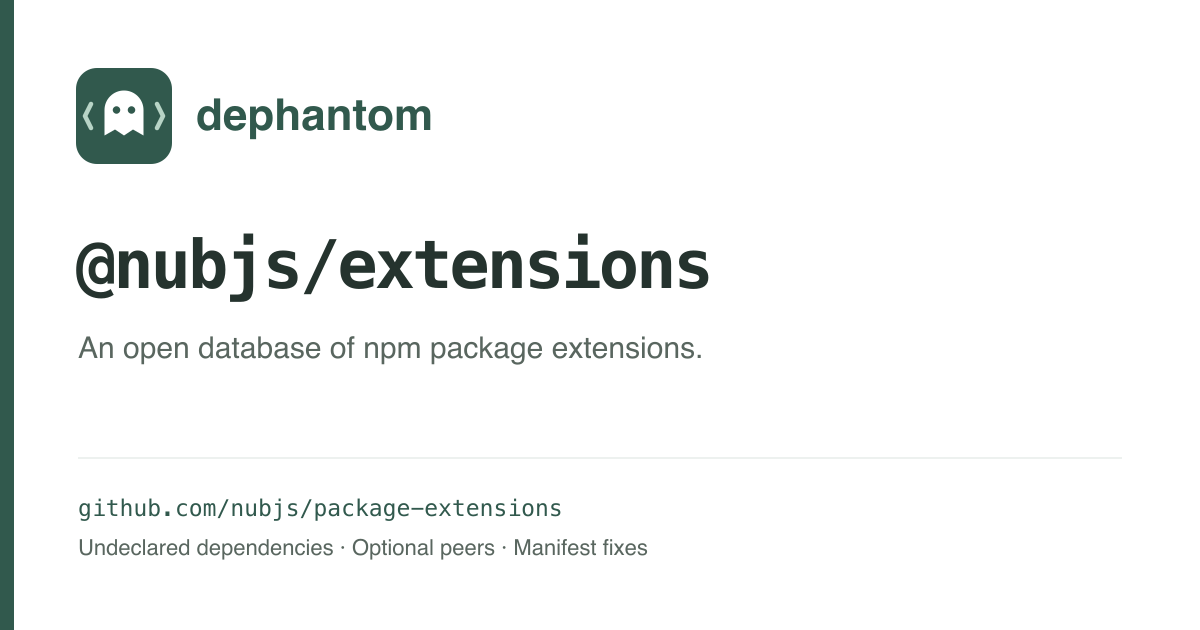
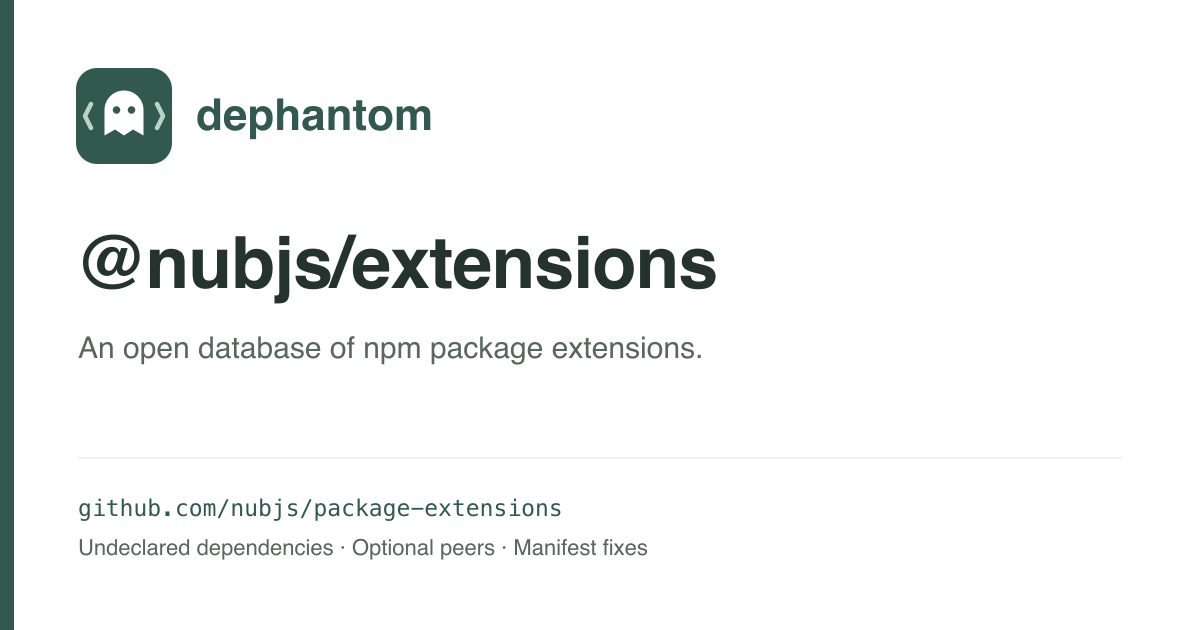
site: refine typography and reading rhythm

Changed region(s): [[0.0617, 0.3619, 0.6167, 0.4825]]

diff --git a/site/style.css b/site/style.css
@@ -1,5 +1,9 @@
 :root {
   --downloads-width: 160px;
+  --sans: -apple-system, BlinkMacSystemFont, "Segoe UI", Helvetica, Arial,
+    sans-serif;
+  --mono: ui-monospace, "SFMono-Regular", Menlo, Consolas, "Liberation Mono",
+    monospace;
   color-scheme: light;
   --ink: #25332e;
   --muted: #59665f;
@@ -14,12 +18,12 @@ body {
   margin: 0;
   background: #fff;
   color: var(--ink);
-  font: 16px/1.7 -apple-system, BlinkMacSystemFont, "Segoe UI", sans-serif;
+  font: 16px/1.75 var(--sans);
 }
 header,
 main,
 footer {
-  max-width: 940px;
+  max-width: 880px;
   margin: auto;
   padding: 0 30px;
 }
@@ -35,7 +39,8 @@ header {
   display: inline-flex;
   align-items: center;
   gap: 10px;
-  font: 700 23px/1.2 "Avenir Next", sans-serif;
+  font: 650 22px/1.2 var(--sans);
+  letter-spacing: -0.025em;
   text-decoration: none;
 }
 header nav {
@@ -51,7 +56,7 @@ header nav a[aria-current] {
   text-underline-offset: 5px;
 }
 main {
-  padding-top: 38px;
+  padding-top: 32px;
   padding-bottom: 60px;
   min-height: 60vh;
 }
@@ -59,20 +64,20 @@ h1,
 h2,
 h3 {
   line-height: 1.25;
-  font-weight: 650;
-  letter-spacing: -0.025em;
+  font-weight: 600;
+  letter-spacing: -0.02em;
 }
 h1 {
   font-size: clamp(28px, 5vw, 40px);
-  margin: 0 0 17px;
+  margin: 0 0 18px;
 }
 .project-intro h1 {
-  font-family: "SFMono-Regular", Consolas, monospace;
-  font-size: clamp(23px, 5vw, 38px);
-  letter-spacing: -0.05em;
+  font-family: var(--sans);
+  font-size: clamp(28px, 5vw, 42px);
+  letter-spacing: -0.025em;
 }
 h2 {
-  font-size: 25px;
+  font-size: 26px;
   margin: 0 0 18px;
 }
 h3 {
@@ -97,44 +102,44 @@ section {
   scroll-margin-top: 25px;
 }
 .readme section + section {
-  margin-top: 42px;
+  margin-top: 48px;
 }
 .project-links {
   display: flex;
   flex-wrap: wrap;
-  gap: 23px;
+  gap: 24px;
   font-size: 14px;
 }
 .contents {
   display: flex;
   flex-wrap: wrap;
   gap: 9px 24px;
-  padding: 20px 0;
-  margin: 26px 0 38px;
+  padding: 18px 0;
+  margin: 30px 0 42px;
   border-block: 1px solid var(--line);
   font-size: 14px;
 }
 .code {
   border: 1px solid var(--line);
   background: var(--code);
-  border-radius: 5px;
+  border-radius: 6px;
   margin: 22px 0;
 }
 .code-label {
   font-size: 12px;
   color: var(--muted);
-  padding: 8px 18px;
+  padding: 8px 20px;
   border-bottom: 1px solid var(--line);
 }
 pre {
   overflow: auto;
   margin: 0;
-  padding: 17px 18px;
-  font-size: 13px;
+  padding: 18px 20px;
+  font-size: 14px;
   line-height: 1.7;
 }
 code {
-  font-family: "SFMono-Regular", Consolas, "Liberation Mono", monospace;
+  font-family: var(--mono);
   font-size: 0.87em;
   overflow-wrap: anywhere;
 }
@@ -227,27 +232,36 @@ button:hover {
   white-space: nowrap;
 }
 td.downloads {
-  font-family: "SFMono-Regular", Consolas, monospace;
-  font-size: 13px;
+  font-size: 14px;
+  font-weight: 500;
 }
 summary {
   cursor: pointer;
 }
+summary::marker {
+  color: var(--muted);
+  font-size: 0.7em;
+}
+summary:hover .package-name {
+  text-decoration: underline;
+  text-underline-offset: 4px;
+}
 .package-name {
-  font-family: "SFMono-Regular", Consolas, monospace;
-  font-size: 13px;
+  font-family: var(--sans);
+  font-size: 14px;
+  font-weight: 500;
   overflow-wrap: anywhere;
 }
 details[open] summary {
   color: var(--link);
 }
 .entry-body {
-  font-size: 13px;
-  padding-top: 18px;
+  font-size: 14px;
+  padding-top: 20px;
   width: calc(100% + var(--downloads-width));
 }
 .entry-body pre {
-  font-size: 11px;
+  font-size: 13px;
 }
 .entry-body ul {
   padding-left: 17px;
@@ -303,7 +317,7 @@ footer p {
   }
   .brand {
     font-size: 20px;
-    gap: 6px;
+    gap: 8px;
   }
   .brand img {
     width: 30px;
@@ -311,6 +325,13 @@ footer p {
   }
   main {
     padding-top: 30px;
+  }
+  pre {
+    font-size: 12px;
+    padding: 16px;
+  }
+  .code-label {
+    padding-inline: 16px;
   }
   body {
     font-size: 15px;
@@ -330,10 +351,10 @@ footer p {
     padding-right: 0;
   }
   td.downloads {
-    font-size: 12px;
+    font-size: 13px;
   }
   .package-name {
-    font-size: 12px;
+    font-size: 13px;
   }
   .fields {
     font-size: 12px;
